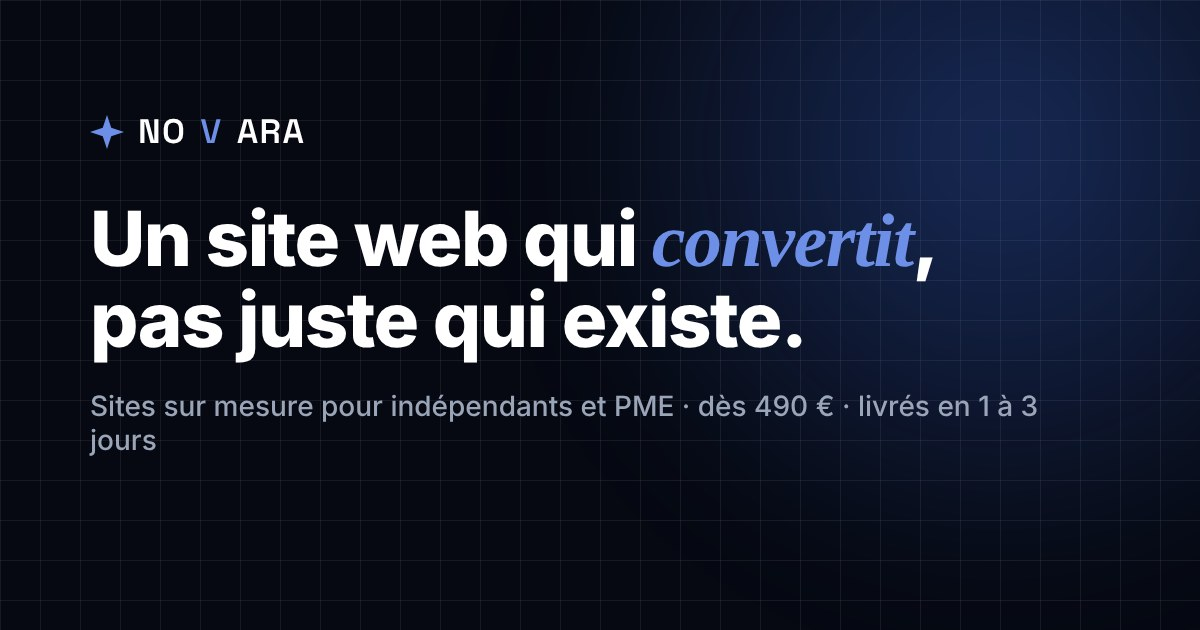
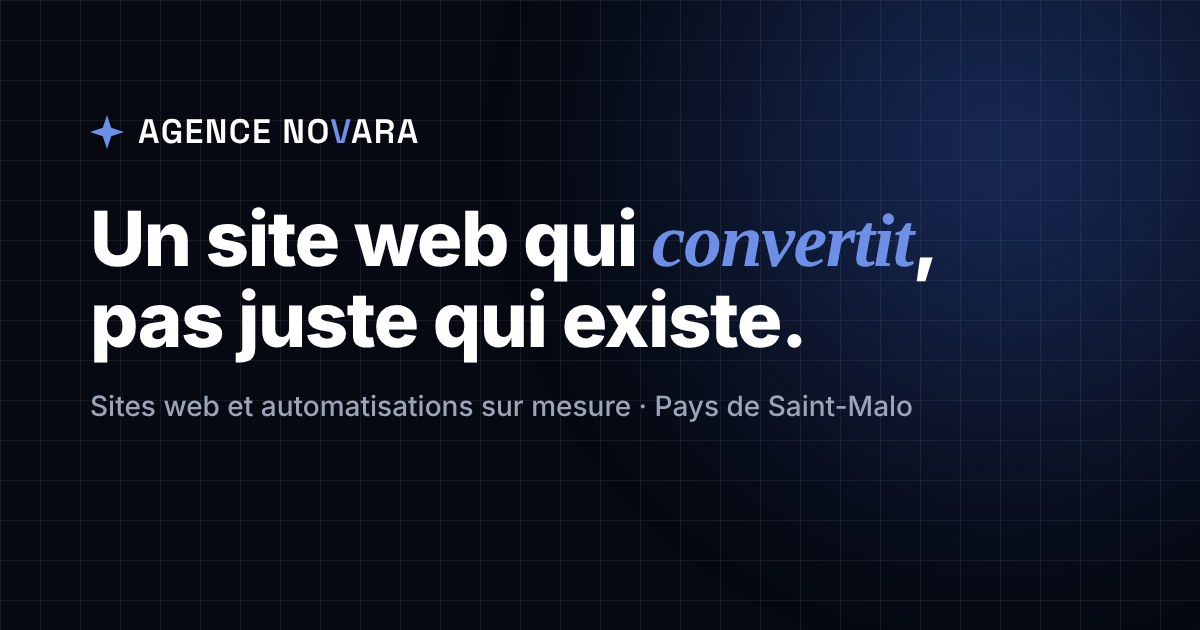
Rename brand to Agence Novara
Logo text in header and footer, share image and remaining copy now use
'Agence Novara'.

Claude-Session: https://claude.ai/code/session_01Mu9AgVuhuqeEmEUNfiXN6g

Changed region(s): [[0.1233, 0.6032, 0.8633, 0.6635], [0.0925, 0.181, 0.3392, 0.2413], [0.0617, 0.6937, 0.1233, 0.7238]]

diff --git a/src/pages/Home.jsx b/src/pages/Home.jsx
@@ -150,7 +150,7 @@ function KeyFacts() {
           Création de site web sur mesure pour indépendants, artisans et PME
         </h2>
         <p className="mt-4 max-w-[760px] text-[15px] leading-relaxed text-slate-body">
-          Novara crée des sites internet sur mesure, rapides et optimisés pour Google, pour les indépendants et les petites entreprises qui veulent transformer leurs visiteurs en clients. Chaque site est conçu à partir de zéro, sans modèle générique, avec un prix fixe annoncé dès le départ.
+          Agence Novara crée des sites internet sur mesure, rapides et optimisés pour Google, pour les indépendants et les petites entreprises qui veulent transformer leurs visiteurs en clients. Chaque site est conçu à partir de zéro, sans modèle générique, avec un prix fixe annoncé dès le départ.
         </p>
         <dl className="mt-8 grid gap-x-8 gap-y-5 sm:grid-cols-2 lg:grid-cols-3">
           {KEY_FACTS.map((f) => (
@@ -169,7 +169,7 @@ function Why() {
   return (
     <section className="bg-navy-900/50 py-24 md:py-32">
       <div className="mx-auto max-w-[1080px] px-6">
-        <SectionHead eyebrow="Pourquoi Novara" title="Une approche simple, sans mauvaise surprise" />
+        <SectionHead eyebrow="Pourquoi Agence Novara" title="Une approche simple, sans mauvaise surprise" />
         <div className="mt-14 grid gap-6 sm:grid-cols-2 lg:grid-cols-4">
           {WHY.map((w, i) => {
             const Icon = ICONS[w.icon]
@@ -474,7 +474,7 @@ function Admin() {
   if (!authed) {
     return (
       <div className="mx-auto flex min-h-screen max-w-sm flex-col justify-center px-6">
-        <p className="text-center text-sm font-semibold text-white">Espace avis — Novara</p>
+        <p className="text-center text-sm font-semibold text-white">Espace avis — Agence Novara</p>
         <form onSubmit={(e) => { e.preventDefault(); load(password) }} className="mt-6 flex flex-col gap-3">
           <input type="password" value={password} onChange={(e) => setPassword(e.target.value)} placeholder="Mot de passe" className={inputCls} />
           {error && <p className="text-center text-[13px] text-red-400">{error}</p>}

diff --git a/src/pages/Automatisations.jsx b/src/pages/Automatisations.jsx
@@ -287,7 +287,7 @@ function Pricing() {
         <div>
           <h3 className="text-lg font-bold text-white">Vos comptes restent sous votre contrôle</h3>
           <p className="mt-3 text-[15px] leading-relaxed text-slate-body">
-            Les comptes d’hébergement, d’automatisation et d’intelligence artificielle nécessaires à la prestation sont ouverts à votre nom ou à celui de votre entreprise. Vous gardez les accès administrateur et payez directement vos éventuels abonnements aux outils. Si vous souhaitez une intervention de Novara, vous pouvez nous accorder un accès délégué et le retirer ensuite.
+            Les comptes d’hébergement, d’automatisation et d’intelligence artificielle nécessaires à la prestation sont ouverts à votre nom ou à celui de votre entreprise. Vous gardez les accès administrateur et payez directement vos éventuels abonnements aux outils. Si vous souhaitez une intervention d’Agence Novara, vous pouvez nous accorder un accès délégué et le retirer ensuite.
           </p>
           <p className="mt-4 inline-flex items-center gap-2 text-[13px] font-medium text-blue-soft"><KeyRound size={15} /> Accès administrateur toujours à votre nom</p>
         </div>

diff --git a/src/content.js b/src/content.js
@@ -160,7 +160,7 @@ export const FAQ = [
     a: 'Comptez entre 1 et 3 jours selon la formule choisie. Le délai précis est confirmé après notre échange de découverte.',
   },
   {
-    q: "Combien coûte la création d'un site internet avec Novara ?",
+    q: "Combien coûte la création d'un site internet avec Agence Novara ?",
     a: "Les tarifs sont fixes et annoncés dès le départ : 490 € pour un site vitrine une page (Essentiel), 790 € pour un site jusqu'à 5 pages (Pro) et 990 € pour un site entièrement sur mesure, sans limite de pages (Signature). Aucun frais caché.",
   },
   {

diff --git a/src/components/ui.jsx b/src/components/ui.jsx
@@ -82,7 +82,7 @@ export function Logo({ className = 'text-lg' }) {
         <path d="M12 0 L15 9 L24 12 L15 15 L12 24 L9 15 L0 12 L9 9 Z" fill="url(#novara-mark)" />
       </svg>
       <span className="font-display font-semibold tracking-[0.04em] text-white">
-        NO<span className="text-blue-soft" style={{ textShadow: '0 0 18px rgba(59,108,224,0.7)' }}>V</span>ARA
+        <span className="whitespace-nowrap">AGENCE NO<span className="text-blue-soft" style={{ textShadow: '0 0 18px rgba(59,108,224,0.7)' }}>V</span>ARA</span>
       </span>
     </span>
   )
